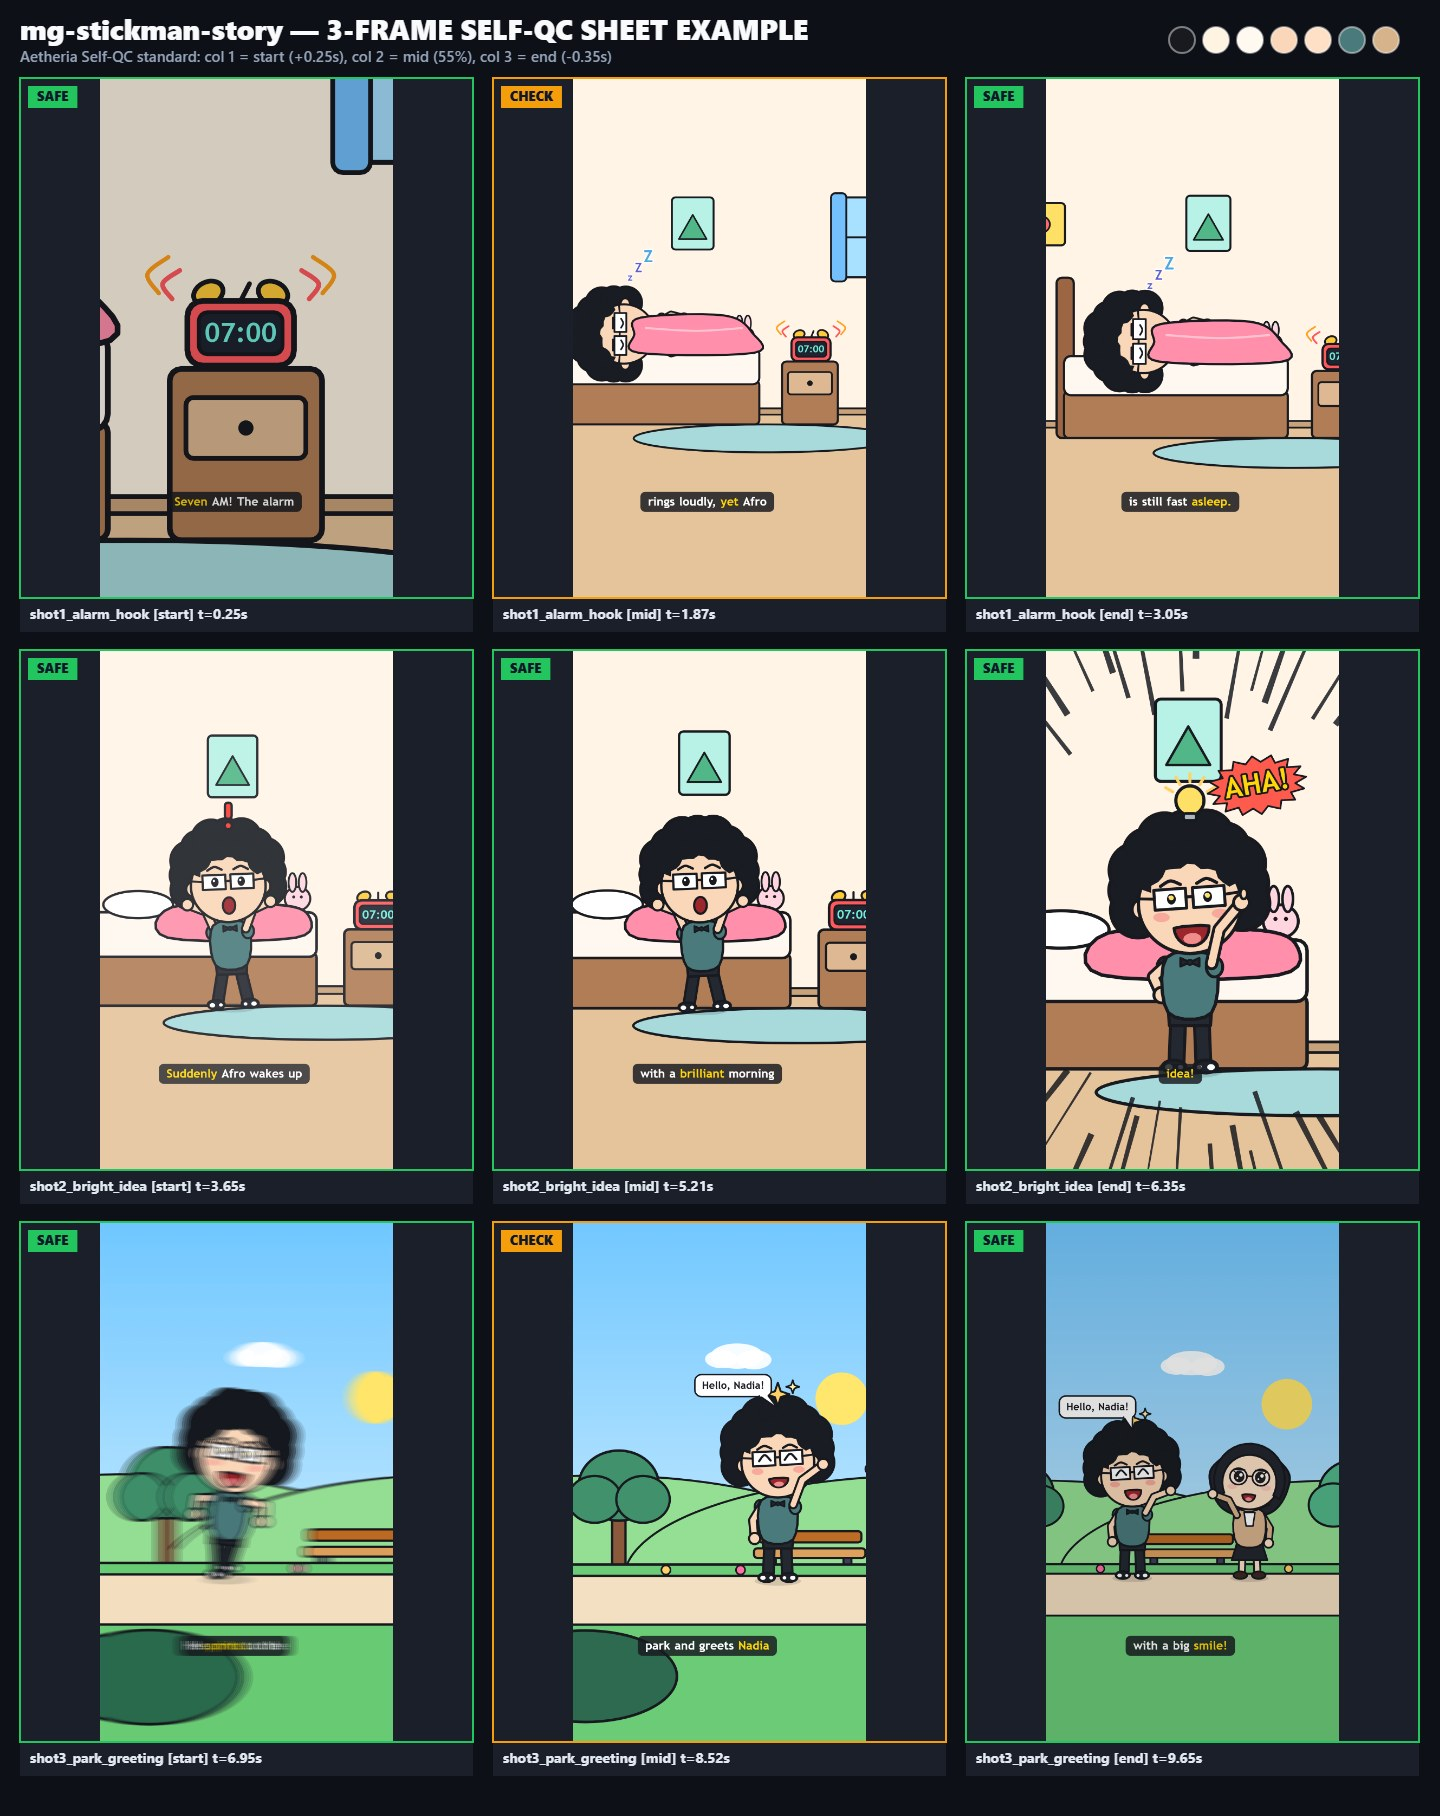
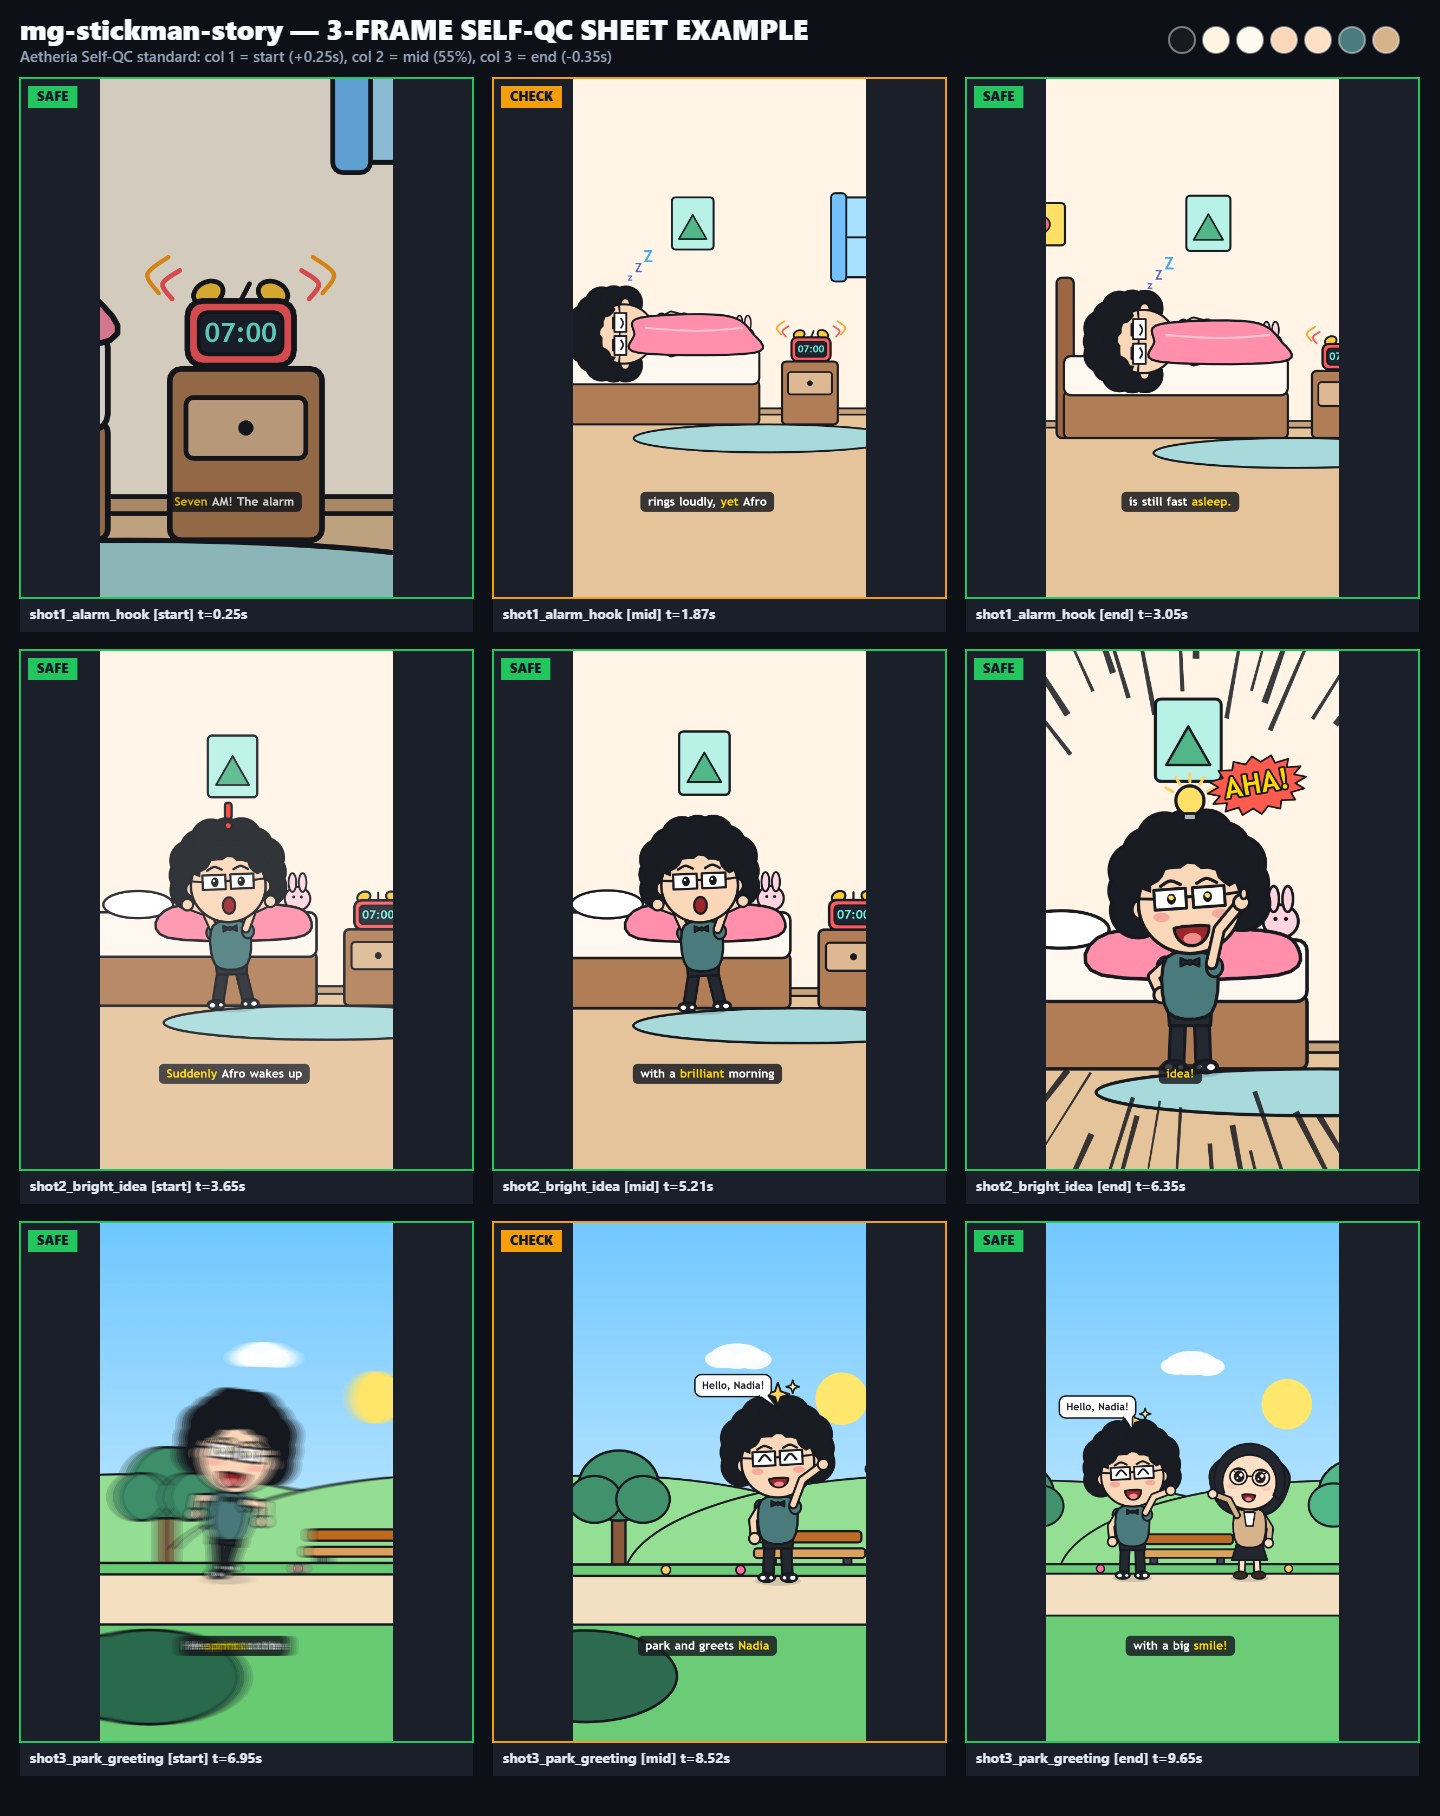
feat(skills): add Tier 1 camera recipes, tokens, and 7-shot example to mg-stickman-story

Changed region(s): [[0.7188, 0.6476, 0.9375, 0.9559]]

diff --git a/.aetheria/skills/mg-stickman-story/examples/script/story-runtime.js b/.aetheria/skills/mg-stickman-story/examples/script/story-runtime.js
@@ -224,8 +224,14 @@
     var rows = Math.max(1, num(grid[1], 2));
     var panels = listOf(shot, 'panels');
     var u = Math.min(W, H) / 1080;
-    var margin = 40 * u;
-    var gap = 26 * u;
+    var safe = env.safe || { x: 56, y: 80, w: W - 184, h: H - 580 };
+    var padX = 12 * u;
+    var padY = 12 * u;
+    var left = safe.x + padX;
+    var top = safe.y + padY;
+    var gridW = Math.max(120, safe.w - padX * 2);
+    var gridH = Math.max(120, safe.h - padY * 2);
+    var gap = 22 * u;
     ctx.setTransform(1, 0, 0, 1, 0, 0);
     ctx.fillStyle = shot.pageColor === 'white' ? '#FFFFFF' : '#FFF6E5';
     ctx.fillRect(0, 0, W, H);
@@ -233,21 +239,23 @@
     var zoom = shot.zoom || null;
     var zp = 0;
     var zr = null;
-    var pw = (W - margin * 2 - gap * (cols - 1)) / cols;
-    var ph = (H - margin * 2 - gap * (rows - 1)) / rows;
+    var pw = (gridW - gap * (cols - 1)) / cols;
+    var ph = (gridH - gap * (rows - 1)) / rows;
     if (zoom) {
       var zt0 = env.when(zoom);
       zp = clamp((env.localTime - zt0) / Math.max(0.1, num(zoom.dur, 1.2)), 0, 1);
       zp = zp * zp * (3 - 2 * zp);
       var zi = Math.max(0, num(zoom.panel, 1) - 1);
-      zr = { x: margin + (zi % cols) * (pw + gap), y: margin + Math.floor(zi / cols) * (ph + gap) };
+      zr = { x: left + (zi % cols) * (pw + gap), y: top + Math.floor(zi / cols) * (ph + gap) };
     }
     ctx.save();
     if (zr && zp > 0) {
-      var sc = 1 + (Math.min(W / pw, H / ph) - 1) * zp;
-      var fcx = W / 2 + (zr.x + pw / 2 - W / 2) * zp;
-      var fcy = H / 2 + (zr.y + ph / 2 - H / 2) * zp;
-      ctx.translate(W / 2, H / 2);
+      var zCenterX = left + gridW * 0.5;
+      var zCenterY = top + gridH * 0.5;
+      var sc = 1 + (Math.min(gridW / pw, gridH / ph) - 1) * zp;
+      var fcx = zCenterX + (zr.x + pw / 2 - zCenterX) * zp;
+      var fcy = zCenterY + (zr.y + ph / 2 - zCenterY) * zp;
+      ctx.translate(zCenterX, zCenterY);
       ctx.scale(sc, sc);
       ctx.translate(-fcx, -fcy);
     }
@@ -267,8 +275,8 @@
       if (age < 0) continue;
       var pop = clamp(age / 0.3, 0, 1);
       var bounce = 1 + Math.sin(pop * Math.PI) * 0.06;
-      var px = margin + (i % cols) * (pw + gap);
-      var py = margin + Math.floor(i / cols) * (ph + gap);
+      var px = left + (i % cols) * (pw + gap);
+      var py = top + Math.floor(i / cols) * (ph + gap);
       var panelEnv = Object.assign({}, env, { localTime: age });
       octx.setTransform(1, 0, 0, 1, 0, 0);
       drawScene(octx, ow, oh, story, pn, panelEnv, { x: 0, y: -300, z: num(pn.zoom, 0.86), r: 0, blur: 0 }, { skipQa: true });
@@ -282,7 +290,7 @@
     }
     ctx.restore();
     ctx.setTransform(1, 0, 0, 1, 0, 0);
-    return { minX: margin, minY: margin, maxX: W - margin, maxY: H - margin };
+    return { minX: left, minY: top, maxX: left + gridW, maxY: top + gridH };
   }
 
   function renderOverlays(ctx, env, shot, sceneInfo, cam) {

diff --git a/apps/src/lib/stickmanStoryKit.test.ts b/apps/src/lib/stickmanStoryKit.test.ts
@@ -68,10 +68,11 @@ describe("mg-stickman-story kit & runtime modules", () => {
 
     const story = JSON.parse(fs.readFileSync(path.join(SKILL_DIR, "examples/story.example.json"), "utf8"));
     expect(story.canvas).toEqual({ w: 1080, h: 1920, fps: 30 });
-    expect(story.shots).toHaveLength(3);
+    expect(story.shots).toHaveLength(7);
     expect(story.shots[0].start).toBe(0);
-    expect(story.shots[1].start).toBeCloseTo(story.shots[0].duration, 3);
-    expect(story.shots[2].start).toBeCloseTo(story.shots[0].duration + story.shots[1].duration, 3);
+    for (let i = 1; i < story.shots.length; i++) {
+      expect(story.shots[i].start).toBeCloseTo(story.shots[i - 1].start + story.shots[i - 1].duration, 3);
+    }
 
     const mods = loadStickmanModules();
     expect(Object.keys(mods.StickmanRig.PRESETS).length).toBeGreaterThanOrEqual(13);

diff --git a/core/aetheria-engine/src/studio/preview_capture.rs b/core/aetheria-engine/src/studio/preview_capture.rs
@@ -272,10 +272,6 @@ pub(crate) fn normalize_preview_timestamps_with_cap(
     out
 }
 
-pub(crate) fn normalize_preview_timestamps(raw: &[f64], duration: f64) -> Vec<f64> {
-    normalize_preview_timestamps_with_cap(raw, duration, MAX_PREVIEW_FRAMES)
-}
-
 pub(crate) fn resolve_default_preview_timestamps(
     requested_timestamps: &[f64],
     should_compare: bool,
@@ -1043,18 +1039,22 @@ mod tests {
 
     #[test]
     fn normalizes_default_and_clamped_timestamps() {
-        let defaults = normalize_preview_timestamps(&[], 10.0);
+        let defaults = normalize_preview_timestamps_with_cap(&[], 10.0, MAX_PREVIEW_FRAMES);
         assert_eq!(defaults, vec![1.0, 3.5, 6.0, 8.5]);
         assert_eq!(compute_relative_ratio(3.5, 10.0), 0.35);
 
-        let custom = normalize_preview_timestamps(&[-1.0, 0.25, 0.255, 99.0, 2.0, 3.0, 4.0], 6.0);
+        let custom = normalize_preview_timestamps_with_cap(
+            &[-1.0, 0.25, 0.255, 99.0, 2.0, 3.0, 4.0],
+            6.0,
+            MAX_PREVIEW_FRAMES,
+        );
         assert_eq!(custom, vec![0.25, 5.95, 2.0, 3.0, 4.0]);
 
         let many: Vec<f64> = (1..=20).map(|i| i as f64 * 0.5).collect();
-        let capped = normalize_preview_timestamps(&many, 20.0);
+        let capped = normalize_preview_timestamps_with_cap(&many, 20.0, MAX_PREVIEW_FRAMES);
         assert_eq!(capped.len(), MAX_PREVIEW_FRAMES);
 
-        let exact_cuts = normalize_preview_timestamps(&[1.667, 4.967], 10.0);
+        let exact_cuts = normalize_preview_timestamps_with_cap(&[1.667, 4.967], 10.0, MAX_PREVIEW_FRAMES);
         assert_eq!(exact_cuts, vec![1.667, 4.967]);
     }
 

diff --git a/.aetheria/skills/mg-stickman-story/references/camera.md b/.aetheria/skills/mg-stickman-story/references/camera.md
@@ -16,7 +16,7 @@ Never leave a shot completely frozen. Every shot runs `StoryCamera.createDirecto
 
 ## 2. Camera Moves Catalog (`camera.moves[]`)
 - `fly-to` — Smooth log-space curve with automatic mid-flight zoom-out dip when crossing distance (hero -> clock -> wide room).
-- `move` — Direct eased glide (`smootherstep` C2 quintic by default) to a new `{ size, focus, x, y, z, dx, dy }`.
+- `move` — Direct eased glide (`smootherstep` C2 quintic by default) to a new `{ size, focus, x, y, z, dx, dy }`. Works for directional **pan** (`dx`), **tilt** (`dy`), and **crane** (`dy` + `z` change) moves.
 - `push` / `push-in` — Smooth zoom-in (`mult`, default `1.4`) to heighten focus.
 - `pull` / `pull-out` / `reveal` — Pulls back (`mult`, default `1.4`) to reveal context or a surprise character.
 - `snap-zoom` — Fast whip punch-in (`dur: 0.25s`, `ease: "snap"`) with soft whoosh SFX for comedy / realization (`"AHA!"`).
@@ -29,8 +29,28 @@ Never leave a shot completely frozen. Every shot runs `StoryCamera.createDirecto
 - `rack-focus` — Soft background blur pulse (`blur: 6`) isolating foreground focus.
 - `cut` — Instant hard cut mid-shot to a new framing target.
 
-## 3. Word-Cue Sync & Pacing Rules
+## 3. 15-Row Moment -> Camera Recipe Table
+| Narrative Moment | `initial` | `moves[]` Sequence | Suggested `transition` |
+|---|---|---|---|
+| Opening hook (insert) | `{ size: "close", focus: "<prop>" }` | `fly-to` -> `{ size: "full", focus: "<hero>" }` | `fade` (`0.3s`) |
+| Alarm / wake-up shock | `{ x: 185, y: -214, z: 2.8 }` | `shake` (`strength: 8, dur: 0.8`) -> `fly-to` `{ size: "full" }` | `cut` / `flash` |
+| Realization / "AHA!" | `{ size: "full", focus: "<hero>" }` | `punch` (`0.14`) + `snap-zoom` on `"word"` (`z: 1.65`) | `flash` (`0.28s`) |
+| Running entrance | `{ size: "full", focus: "<hero>" }` | `follow` (`until: 1.35`) -> `push` (`focus: [a, b]`) | `whip` (`left`/`right`) |
+| Two-character banter | `{ size: "wide", focus: ["a", "b"] }` | `orbit-sway` (`strength: 45, period: 5.5`) + `push` | `slide-push` / `cut` |
+| Tense silence / reveal | `{ size: "medium", focus: "<hero>" }` | `push` (`mult: 1.35, ease: "linear"`) | `blink` / `cut` |
+| Dramatic reveal (context) | `{ size: "close", focus: "<hero>" }` | `pull` (`mult: 1.55, dur: 1.2`) | `iris` |
+| Comic panic / spiral | `{ size: "full", focus: "<hero>" }` | `dutch` (`r: -4.5, dur: 0.6`) + `shake` (`strength: 10`) | `whip` |
+| Warm / emotional beat | `{ size: "medium", focus: "<hero>" }` | `orbit-sway` (`strength: 32, period: 6.0`) | `crossfade` |
+| Walk-and-talk exposition | `{ size: "full", focus: "<hero>" }` | `follow` (`lag: 0.45`) + pan (`move` `dx`) | `slide-push` |
+| Punchline beat | `{ size: "medium", focus: "<hero>" }` | `snap-zoom` (`to: { size: "close", focus: "<hero>" }`) | `cut` |
+| Crowd / room establish | `{ size: "extreme-wide" }` | `move` (`dy: -40, z: 1.05` crane down) | `zoom-cross` |
+| Quick location switch | `{ size: "full", focus: "<hero>" }` | `whip` (`dir: "left"`, `dur: 0.38`) | `whip` |
+| Comic / montage recap | `{ grid: [2, 2], panels: [...] }` | `zoom` onto hero panel (`dur: 1.0`) | `zoom-cross` |
+| Closing wave / CTA | `{ size: "full", focus: ["a", "b"] }` | `push` (`mult: 1.15`) -> gentle `orbit-sway` | `fade` (`0.4s`) |
+
+## 4. Word-Cue Sync, Aspect Ratio & 9-Frame Strip Inspection
 - Attach reactions directly to narration via `"word": "idea"` (`"offset": -0.15`) so reveals pop on the exact spoken syllable.
-- Switch shot or camera move at least every `<= 4.0s`.
-- Never place 3 consecutive shots with the same `(size, stage)` — `storyQa.directorWarnings` will flag `[CHECK]`.
-- Keep all focused heads inside the TikTok safe zone (`X:49..960, Y:60..1440`) across all 3 Self-QC frames (`start`, `mid`, `end`).
+- Switch shot or camera move at least every `<= 4.0s`; never place 3 consecutive shots with the same `(size, stage)` or `storyQa.directorWarnings` will flag `[CHECK]`.
+- **Optional 16:9 Landscape (`1920x1080`):** Only use when explicitly requested by the user (`z: 0.85..1.90` feels wider horizontally; adjust `overlays[].pos` inside `0.15..0.85`).
+- **On-Demand 9-Frame Motion Strip:** Default `capture_film_preview` captures 3 frames per shot (`start`, `mid`, `end`). For fast `follow`, `fly-to`, or `whip` shots, call `capture_film_preview({ framesPerShot: 9, stripShotId: "<shotId>" })` to inspect `.aetheria/preview/strip_<shotId>.jpg`.
+- Keep all focused heads inside the TikTok safe zone (`X:49..960, Y:60..1440`) across all Self-QC frames.

diff --git a/.aetheria/skills/mg-stickman-story/references/story-and-script.md b/.aetheria/skills/mg-stickman-story/references/story-and-script.md
@@ -11,3 +11,8 @@ After calling `capture_film_preview`, inspect `.aetheria/preview/contact_sheet.j
 - **`mid` frame (`55%`):** Are heads, glasses, eyes, and speech bubbles 100% unclipped inside the blue dashed TikTok safe zone? Do speech bubbles stay well above the bottom karaoke subtitle bar (`y < 0.78*H`)?
 - **`end` frame (`-0.35s`):** Did the ending camera move land balanced without drifting partially off-screen?
 - **`storyQa.directorWarnings`:** Resolve any `[CHECK]` warnings (phrase mismatch, monotonous shot sizes, or element collision) with at most 1 surgical pass on `story.json`.
+
+## 3. User-Supplied VO + Script Mode
+When the user provides their own voiceover WAV (`source.voPath`) and full script (`source.script`):
+1. Slice the full script cleanly across `shots[]` so the concatenated per-shot `caption` text equals the user's supplied script verbatim (no dropped or invented sentences).
+2. Pass `scenes[].voPath` (relative workspace path inside the project, e.g. `"input/shot1_vo.wav"`) to `film_audio`. The engine skips TTS synthesis, reads exact WAV duration via `read_wav_duration_secs`, detects speech segments via RMS energy (`±0.2s` estimated word timing when no external word-alignment JSON is supplied), and writes `audio/<id>.words.json` + `audio/<id>.levels.json` for tight subtitles and mouth lipsync.
